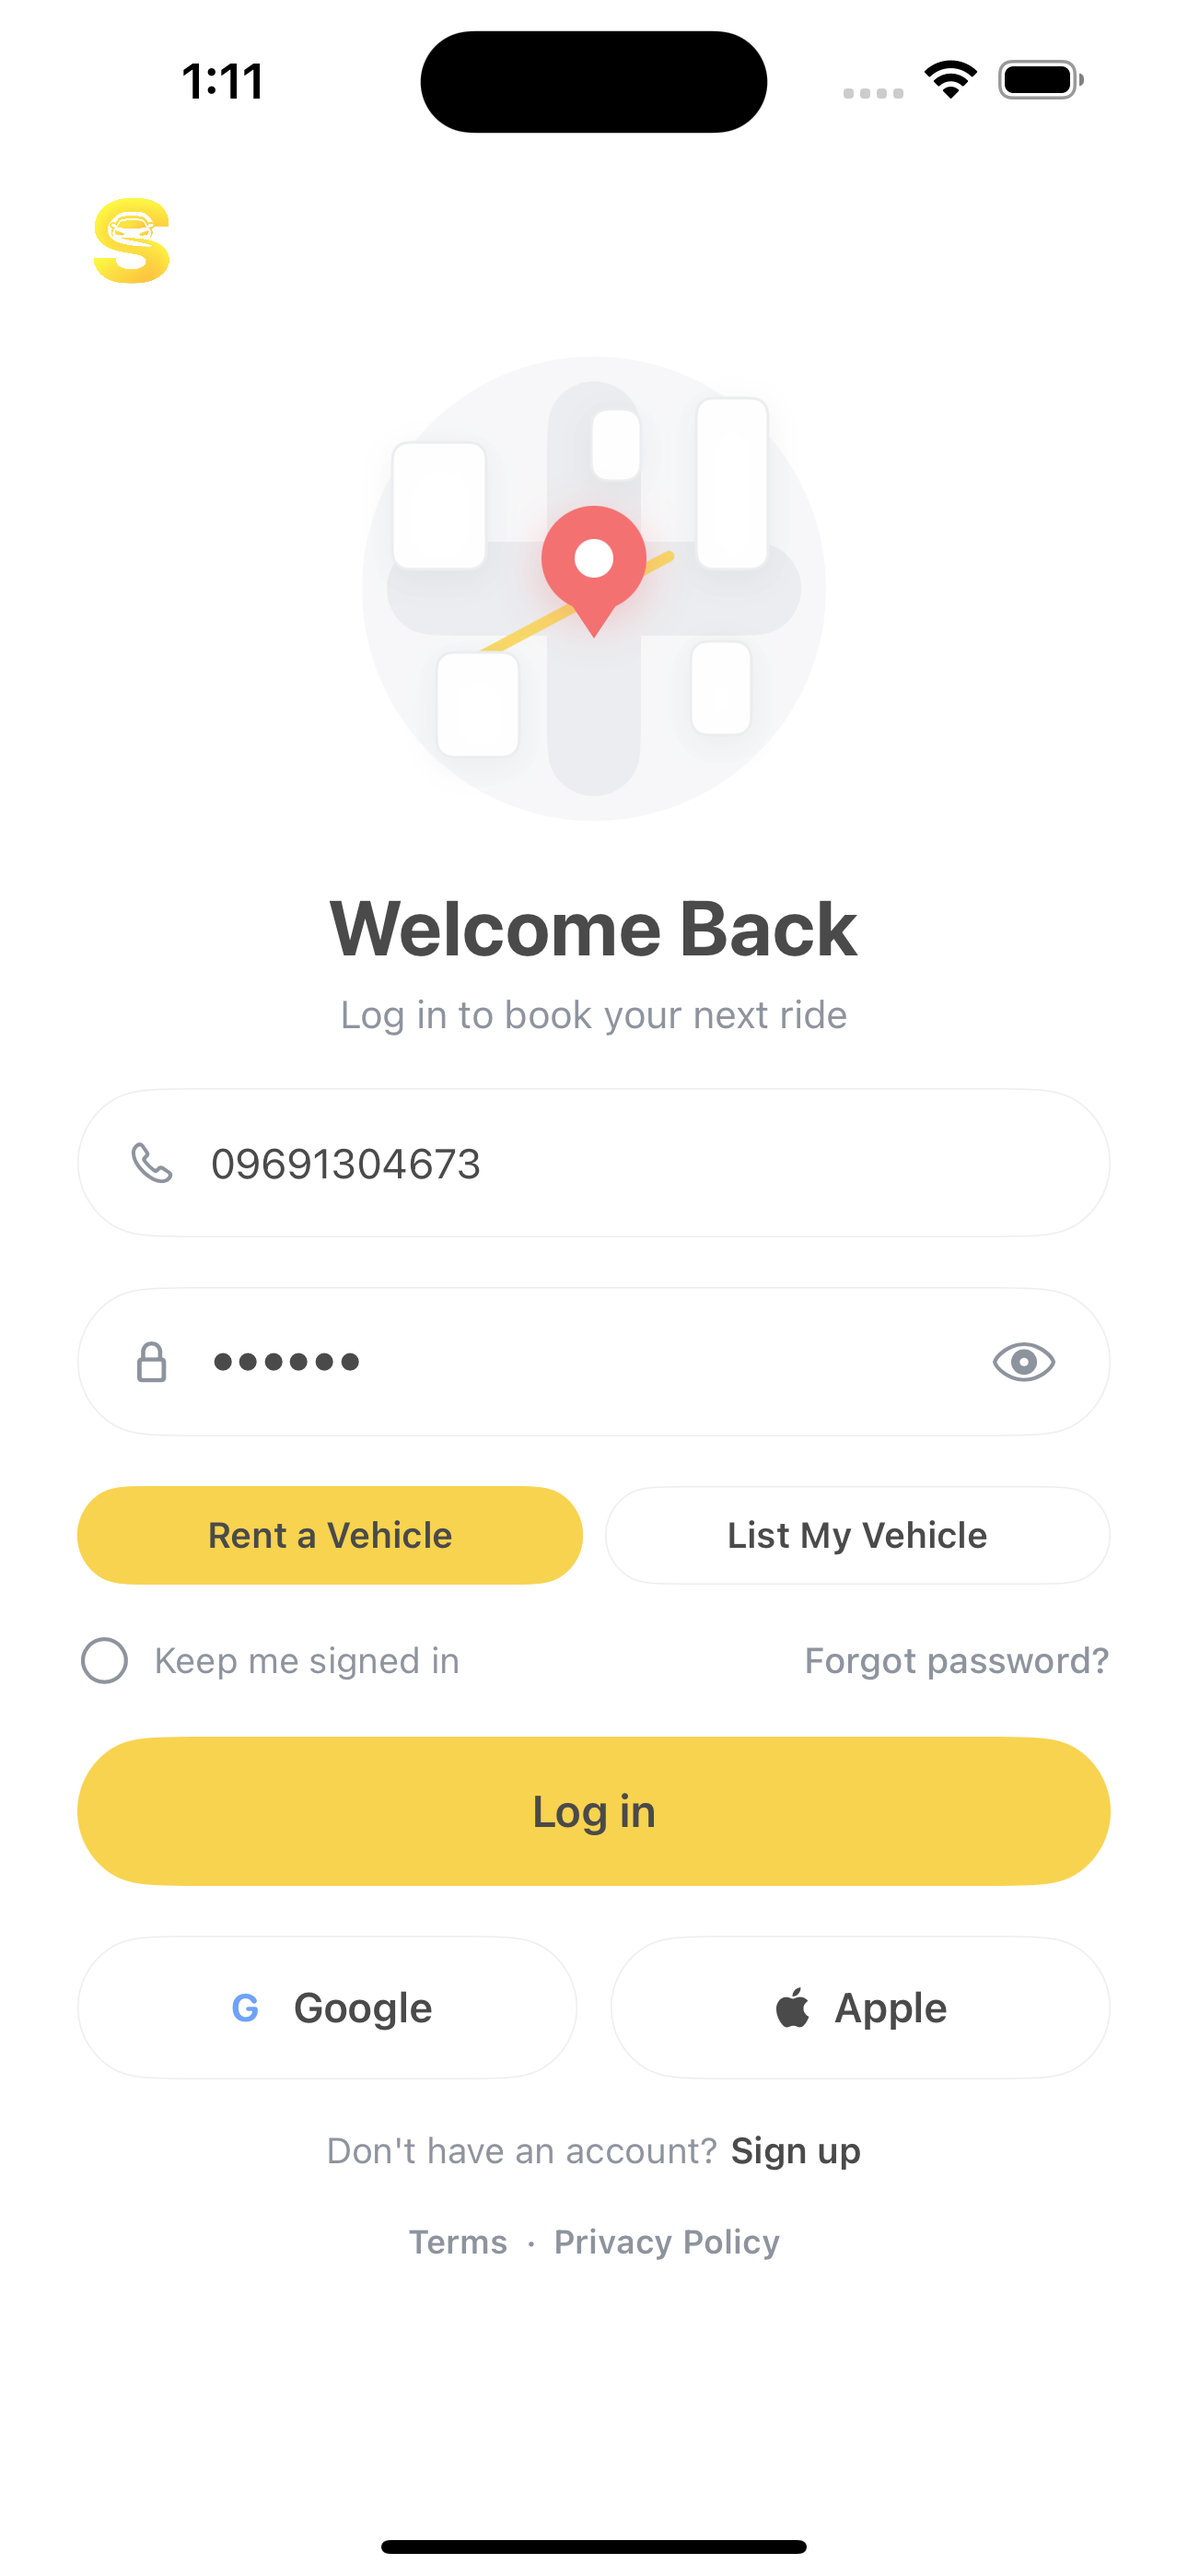
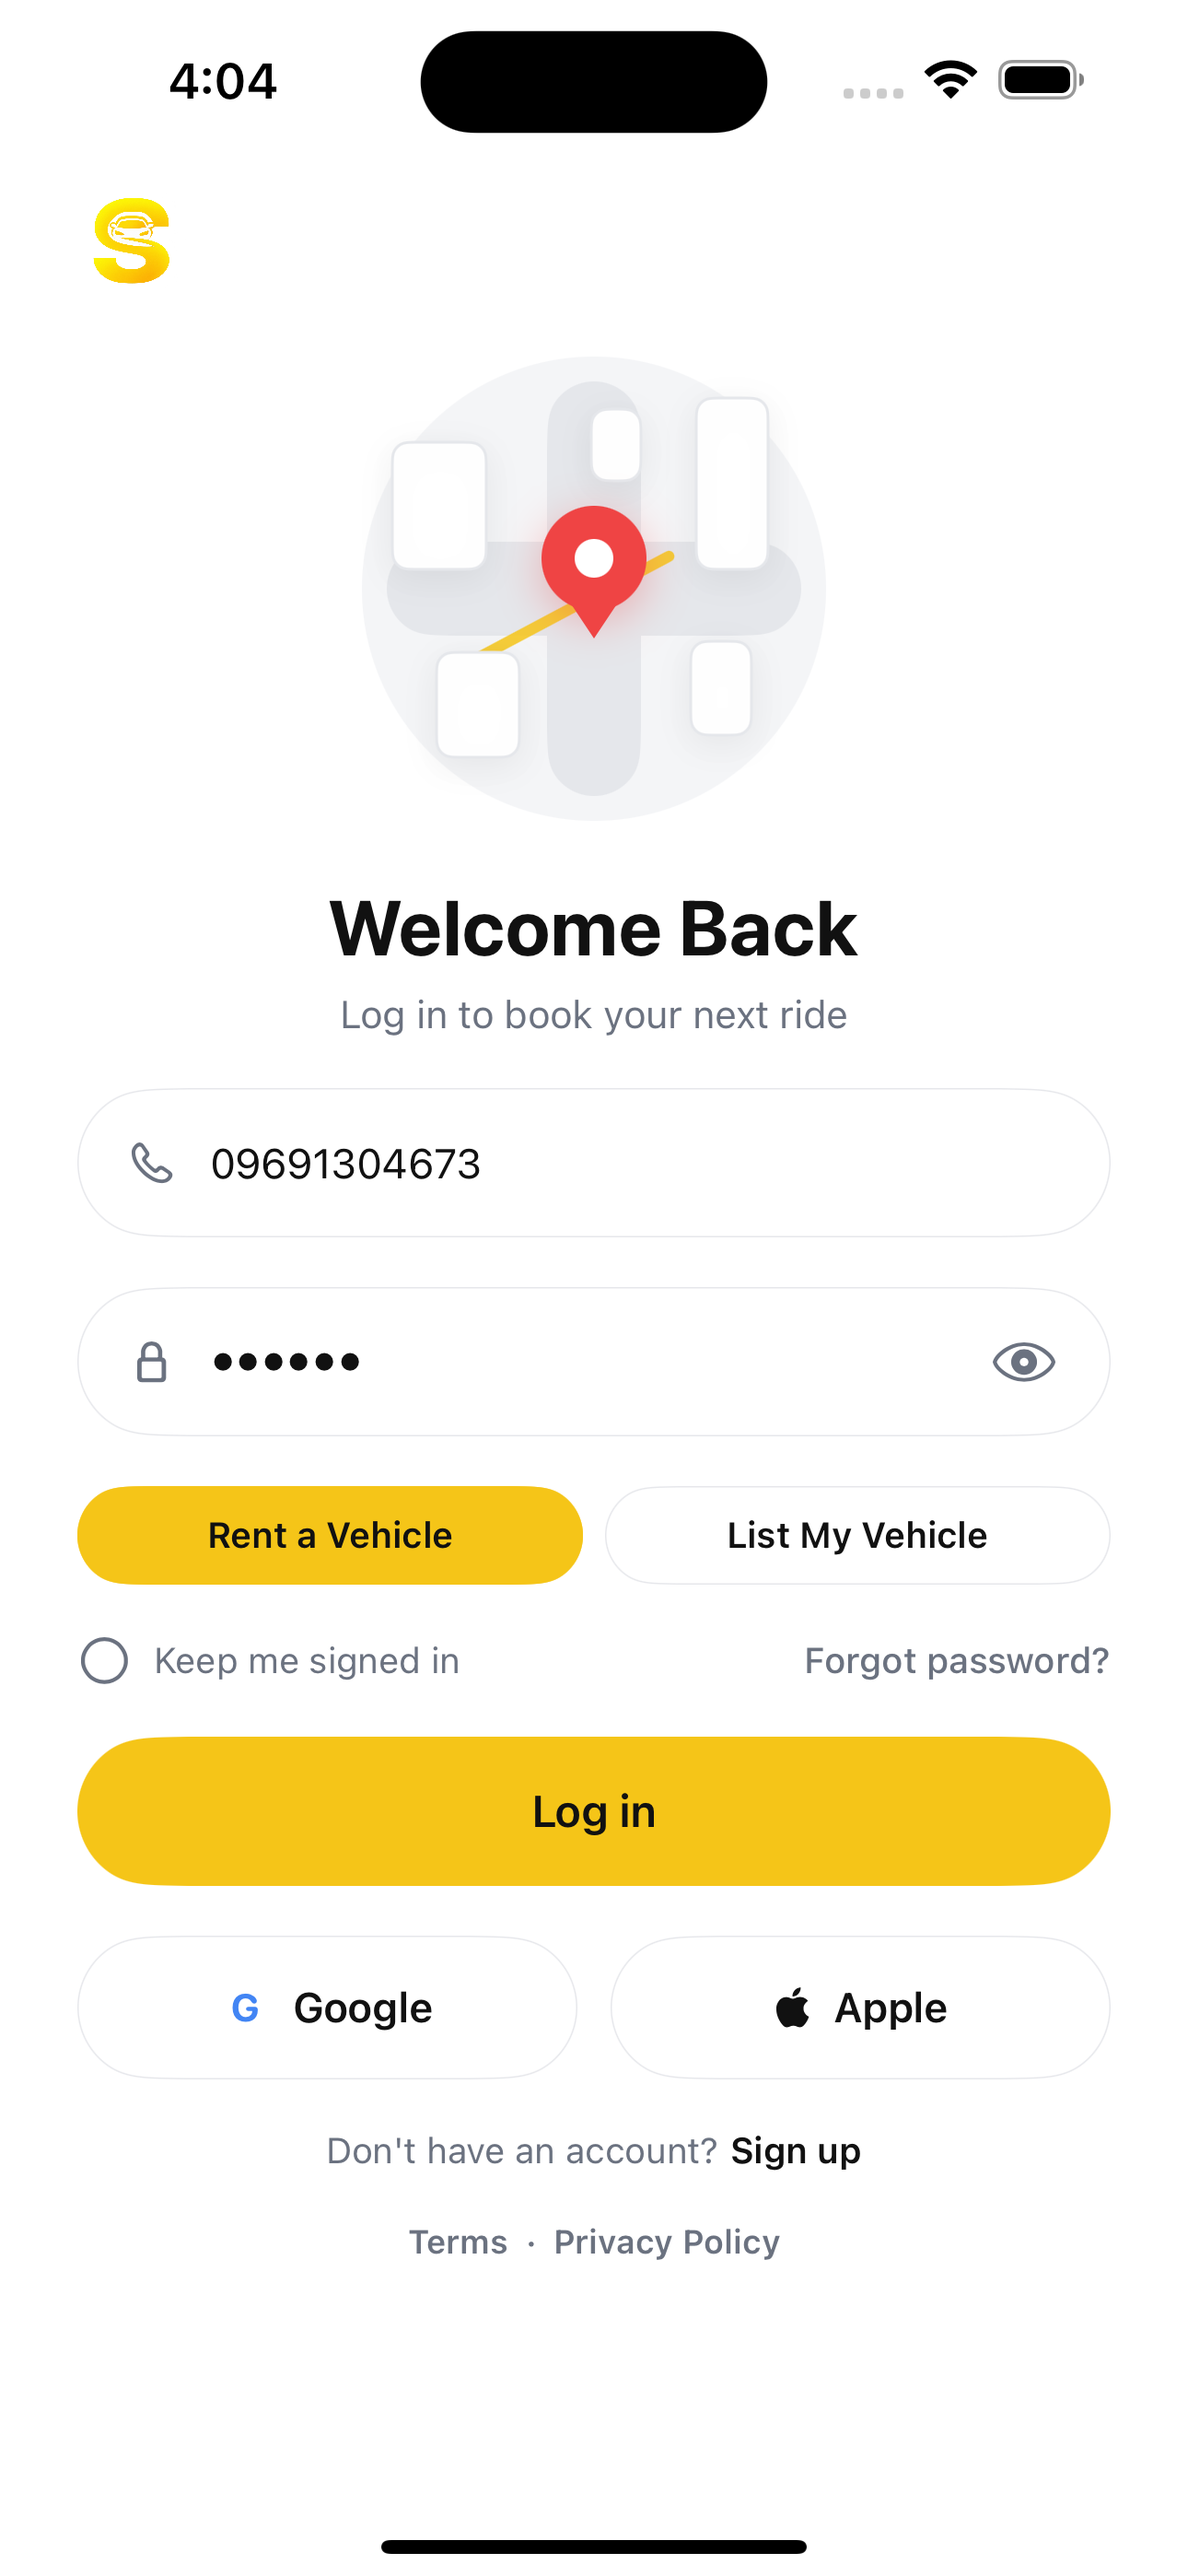
Add full feature screenshot set for submission docs.
Capture 36 simulator screens covering renter and owner flows and refresh overview/README inventory.

diff --git a/SakayNa/Views/MainTabView.swift b/SakayNa/Views/MainTabView.swift
@@ -191,9 +191,16 @@ struct MainTabView: View {
             case .chat:
                 bookings.selectedTab = .messages
                 messagesPath.append(route)
-            case .tripTracking:
+            case .tripTracking, .rateTrip, .receipt:
                 bookings.selectedTab = .bookings
                 bookingsPath.append(route)
+            case .allVehicles, .vehicleDetail, .booking, .payment, .confirmation, .licenseUpload:
+                bookings.selectedTab = .home
+                homePath.append(route)
+            case .editProfile, .paymentMethods, .helpSupport, .notificationSettings,
+                    .termsAndConditions, .privacyPolicy, .savedVehicles, .about, .verifyAccount:
+                bookings.selectedTab = .profile
+                profilePath.append(route)
             default:
                 break
             }

diff --git a/SakayNa/Views/OwnerTabView.swift b/SakayNa/Views/OwnerTabView.swift
@@ -143,9 +143,16 @@ struct OwnerTabView: View {
             case .chat:
                 bookings.selectedTab = .messages
                 messagesPath.append(route)
-            case .tripTracking:
+            case .tripTracking, .rateTrip, .receipt:
                 bookings.selectedTab = .bookings
                 requestsPath.append(route)
+            case .addVehicle:
+                bookings.selectedTab = .home
+                dashboardPath.append(route)
+            case .editProfile, .paymentMethods, .helpSupport, .notificationSettings,
+                    .termsAndConditions, .privacyPolicy, .about, .verifyAccount:
+                bookings.selectedTab = .profile
+                profilePath.append(route)
             default:
                 break
             }

diff --git a/SakayNa/SakayNaApp.swift b/SakayNa/SakayNaApp.swift
@@ -32,6 +32,10 @@ struct SakayNaApp: App {
                     NavigationStack {
                         WelcomeView()
                     }
+                } else if auth.authScreen == .signup {
+                    NavigationStack {
+                        SignupView()
+                    }
                 } else {
                     NavigationStack {
                         LoginView()

diff --git a/SakayNa/Views/Screens/WelcomeView.swift b/SakayNa/Views/Screens/WelcomeView.swift
@@ -19,6 +19,8 @@ struct WelcomeView: View {
 
     var body: some View {
         ZStack {
+            palette.canvas.ignoresSafeArea()
+
             // Full-screen intro; stays on the last frame when finished
             if let player {
                 IntroPlayerView(player: player)

diff --git a/docs/APPLICATION_OVERVIEW.md b/docs/APPLICATION_OVERVIEW.md
@@ -65,12 +65,46 @@ All live data (accounts, vehicles, bookings, chat, and notifications) is stored 
 
 ## Screenshots
 
-Clear screenshots of the running SwiftUI app are in `docs/screenshots/`:
+Full feature set captured from the running SwiftUI simulator (`docs/screenshots/`):
 
-1. **Welcome** — brand intro and get-started slide  
-2. **Login** — phone/password auth, renter vs owner role  
-3. **Owner dashboard** — earnings, listed vehicles, add vehicle  
-4. **Renter home** — search, dates, city/type filters, vehicle cards  
+| # | File | Feature |
+|---|---|---|
+| 01 | `01-welcome.png` | Welcome / brand intro |
+| 02 | `02-login.png` | Login (phone + role) |
+| 03 | `03-signup.png` | Create account + Terms |
+| 04 | `04-renter-home.png` | Renter home browse |
+| 05 | `05-all-vehicles.png` | All vehicles / filters |
+| 06 | `06-vehicle-detail.png` | Vehicle detail + gallery |
+| 07 | `07-booking.png` | Booking form + payment choice |
+| 08 | `08-payment.png` | Payment / proof flow |
+| 09 | `09-confirmation.png` | Booking confirmation |
+| 10 | `10-my-bookings.png` | My bookings list |
+| 11 | `11-trip-tracking.png` | Trip tracking timeline |
+| 12 | `12-receipt.png` | Receipt / PDF |
+| 13 | `13-rate-trip.png` | Rate trip |
+| 14 | `14-messages.png` | Messages inbox |
+| 15 | `15-chat.png` | Chat thread |
+| 16 | `16-notifications.png` | In-app notifications |
+| 17 | `17-profile-renter.png` | Renter profile |
+| 18 | `18-edit-profile.png` | Edit profile |
+| 19 | `19-payment-methods.png` | Payment methods |
+| 20 | `20-license-upload.png` | License / ID upload |
+| 21 | `21-saved-vehicles.png` | Saved / favorites |
+| 22 | `22-notification-settings.png` | Notification settings |
+| 23 | `23-help.png` | Help |
+| 24 | `24-terms.png` | Terms of use |
+| 25 | `25-privacy.png` | Privacy policy |
+| 26 | `26-about.png` | About |
+| 27 | `27-owner-dashboard.png` | Owner dashboard |
+| 28 | `28-add-vehicle.png` | Add vehicle |
+| 29 | `29-edit-vehicle.png` | Edit vehicle |
+| 30 | `30-booking-requests.png` | Booking requests |
+| 31 | `31-owner-messages.png` | Owner messages |
+| 32 | `32-owner-chat.png` | Owner chat |
+| 33 | `33-owner-profile.png` | Owner profile |
+| 34 | `34-verify-account.png` | Owner verification |
+| 35 | `35-owner-payout.png` | Payout methods |
+| 36 | `36-owner-notifications.png` | Owner notifications |
 
 ## Source code
 

diff --git a/README.md b/README.md
@@ -13,12 +13,20 @@ See [docs/APPLICATION_OVERVIEW.md](docs/APPLICATION_OVERVIEW.md).
 
 ## Screenshots
 
+36 feature screenshots live in [`docs/screenshots/`](docs/screenshots/) (welcome → signup → renter booking/trip/chat → owner dashboard/listings/requests). Full inventory: [APPLICATION_OVERVIEW.md](docs/APPLICATION_OVERVIEW.md#screenshots).
+
 | Screen | Preview |
 |---|---|
 | Welcome | ![Welcome](docs/screenshots/01-welcome.png) |
 | Login | ![Login](docs/screenshots/02-login.png) |
-| Owner dashboard | ![Owner](docs/screenshots/03-owner-dashboard.png) |
+| Signup | ![Signup](docs/screenshots/03-signup.png) |
 | Renter home | ![Renter](docs/screenshots/04-renter-home.png) |
+| Vehicle detail | ![Detail](docs/screenshots/06-vehicle-detail.png) |
+| Trip tracking | ![Trip](docs/screenshots/11-trip-tracking.png) |
+| Chat | ![Chat](docs/screenshots/15-chat.png) |
+| Owner dashboard | ![Owner](docs/screenshots/27-owner-dashboard.png) |
+| Add vehicle | ![Add](docs/screenshots/28-add-vehicle.png) |
+| Booking requests | ![Requests](docs/screenshots/30-booking-requests.png) |
 
 ## Demo accounts
 
